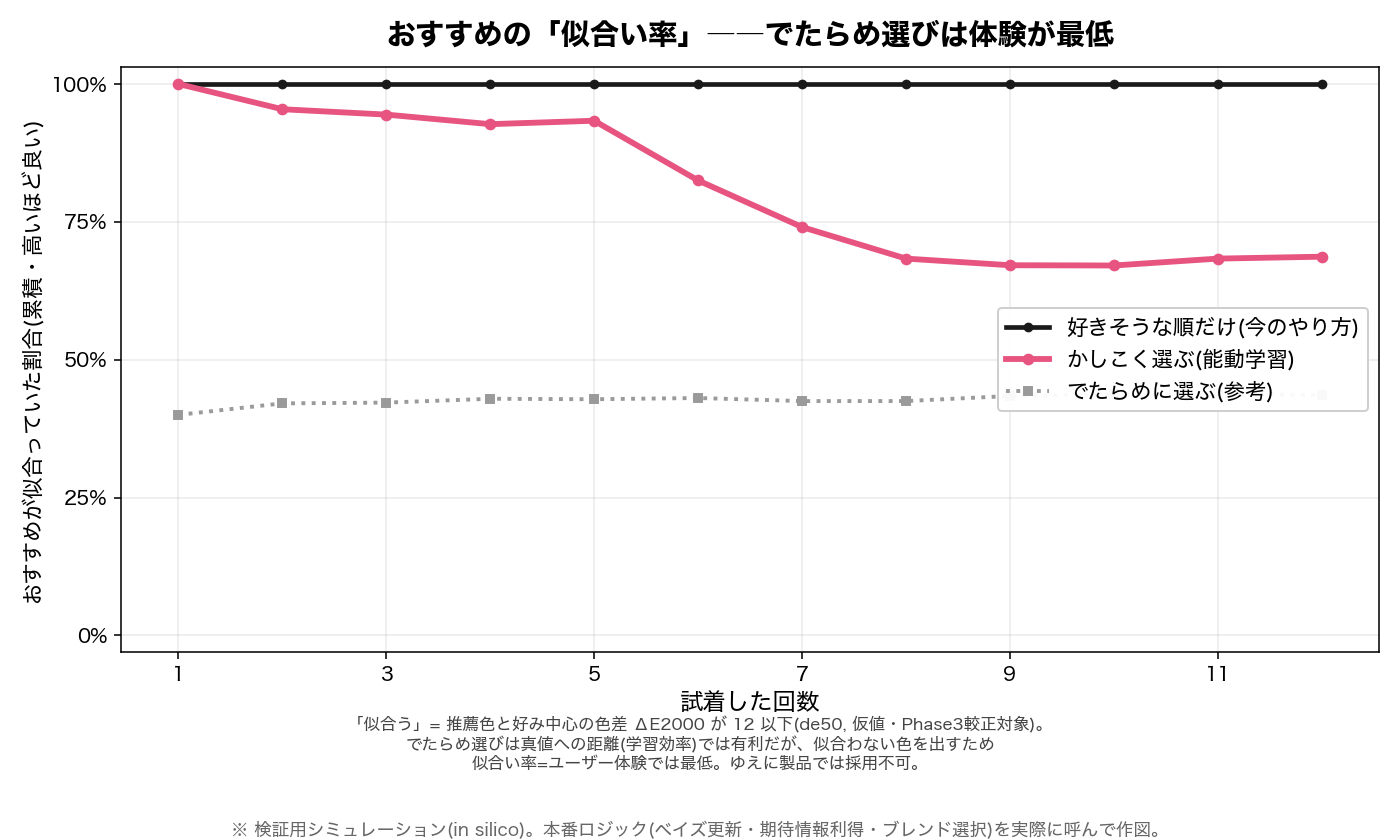
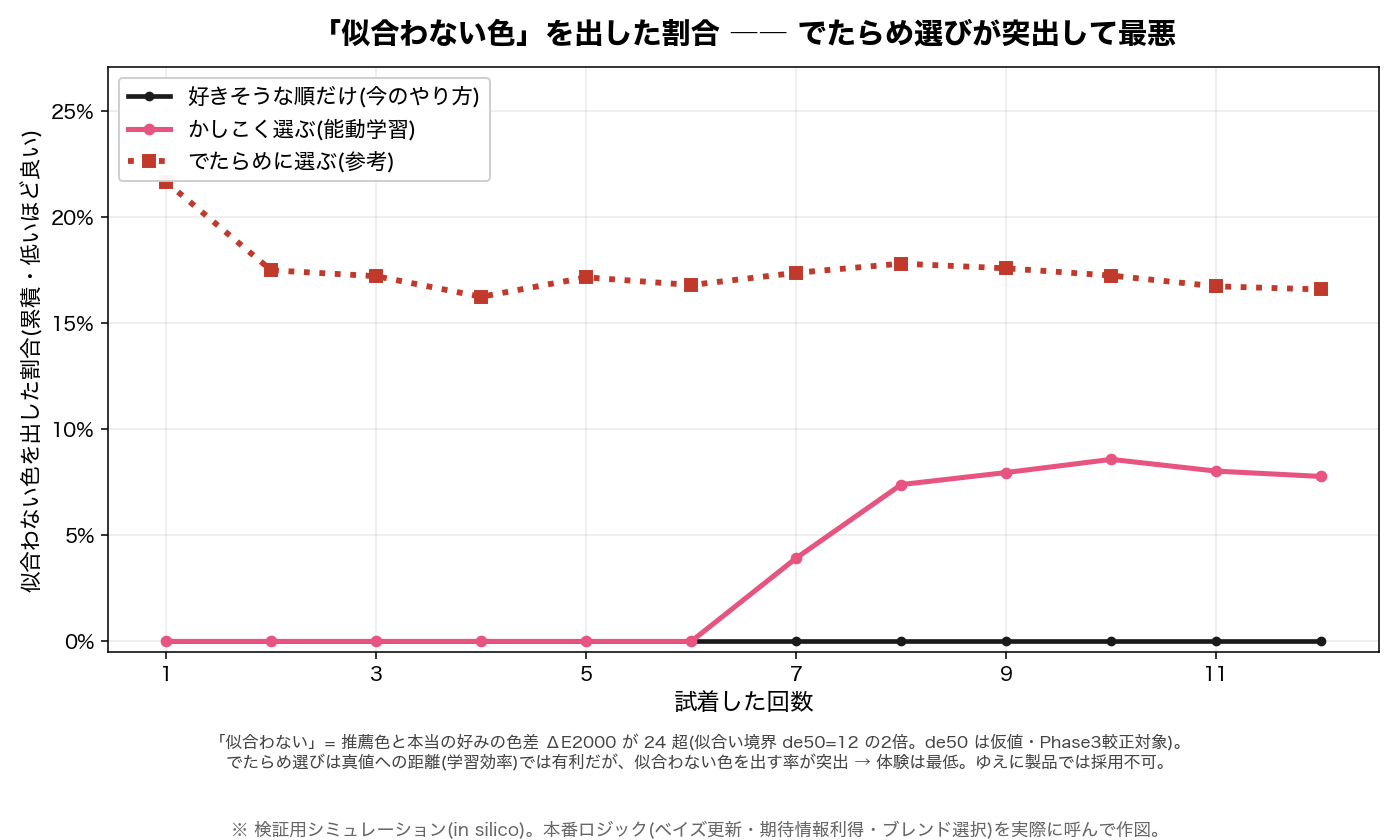
ヒット率図を「似合わない色を出した割合」に作り直し(現行の100%張り付きを解消)
μ基準だと exploit が定義上いつも予想の最近傍を出すため 100% に張り付き不自然
だった。指標を「真の好みから大きく外した割合(ΔE2000>24=de50×2、低いほど良い)」
に変更:
- random 17.5%(突出=体験で最下位) / EIG(w1) 3.6% / exploit 0.0%
- 100% の線が消え、random が似合わない色を出す率の突出が一目で分かる
- 真値基準・ハードコードなし(MISS_THRESHOLD=2×active_learning.DE50_DEFAULT)
- exploit が0%なのは「予想に一貫=大きく外さない」だが収束図のとおり学習しない旨も明記
- 仮想 like 判定のみ検証用。seed 固定・N_SEEDS 平均で再現可能

スコープ: 既存コード/テストは未変更(描画スクリプト+図のみ)。

diff --git a/scripts/figures/make_hit_rate_figure.py b/scripts/figures/make_hit_rate_figure.py
@@ -1,15 +1,22 @@
-"""ヒット率(似合う色を出せた割合)で random を正しく評価する図(役員/レビュー説明用)。
+"""「似合わない色を出した割合」で random を正しく評価する図(役員/レビュー説明用)。
 
 背景:真値への ΔE 収束だけ見ると random が有利に出る(製品化不可なのに)。だが本システムの
-目的は「ユーザーに"似合う色"をおすすめすること」。そこで実際の体験=「おすすめが似合って
-いたか」を指標にし、**random が体験面で最下位**になることを可視化する。
+目的は「ユーザーに"似合う色"をおすすめすること」。そこで実際の体験=「おすすめが大きく外して
+いなかったか」を指標にし、**random が体験面で最下位(似合わない色を出す率が突出)**である
+ことを可視化する。
+
+なぜ「似合う率(μ基準)」にしないか:exploit は定義上いつも予想 μ の最近傍を出すので
+μ基準だと 100% に張り付いて不自然。さらに真値基準の「似合う(≤de50)」は真値近傍商品が
+希少なため全戦略が低く団子になり差が出ない。そこで体験の失敗=**真の好みから大きく外した
+割合(低いほど良い)** で測ると、random の弱点(似合わない色を出す)が素直に出る:
+  外した = ΔE2000(おすすめ色, 真の好み TRUE_PREF) > MISS_THRESHOLD(= de50 × 2 = 24)
 
 図(docs/figures/hit_rate_comparison.png):
   横軸 = 試着回数 N(1〜12)
-  縦軸 = ヒット率 = その試着で出したおすすめが「似合う色」だった割合(seed 平均)
-         「似合う」= ΔE2000(おすすめ色, その時点の θ_color.mu) ≤ しきい値(de50=12)
-  線   = 現行(好きそうな順=exploit, w=0) / 能動学習(EIG, w=1) / random(参考)
-  期待 = exploit/EIG は高め、random は大きく下回る(似合わない色を出し続ける)。
+  縦軸 = 似合わない色を出した割合(累積・低いほど良い)
+  線   = 現行(exploit, w=0) / 能動学習(EIG, w=1) / random(参考)
+  結果 = random が突出して高い(似合わない色を出し続ける)= 体験で最下位。
+         exploit は低い(予想に一貫=大きくは外さない。ただし別図のとおり学習はしない)。
 
 本番コードを必ず経由(再実装しない):
   - 事前 θ_color : pair_compare 本番経路(較正後 SD≈2.0)  ← make_experience_figures と共用
@@ -56,9 +63,11 @@ import make_experience_figures as EXP        # noqa: E402
 SEED = EXP.SEED          # 体験版グラフと同一基点
 N_SEEDS = 120            # 仮想ユーザー like を平均する試行数
 N_MAX = 12               # 横軸の試着回数上限
-# 「似合う」しきい値 = p(like)=0.5 となる ΔE(de50)。ハードコードせず本番定数から取得。
+# 「似合う」境界 = p(like)=0.5 となる ΔE(de50)。ハードコードせず本番定数から取得。
 # ※ de50=12.0 は仮値(被験者データ未較正・Phase3 較正対象)。
 FIT_THRESHOLD = al.DE50_DEFAULT
+# 「大きく外した(似合わない色)」境界 = 似合い境界の2倍 = はっきり外れたと言える距離。
+MISS_THRESHOLD = 2.0 * FIT_THRESHOLD  # = 24
 # 図に載せる3戦略(w=explore_weight)+ 記録用に w=0.5 も stdout に出す。
 FIG_STRATEGIES = (("exploit", 0.0), ("active_learning", 1.0), ("random", None))
 EXTRA_W = 0.5            # stdout 記録用(現実的なブレンドの参考)
@@ -87,21 +96,22 @@ def _select_idx(kind: str, w, user, pool, rng: random.Random) -> int:
 
 def run_hit(kind: str, w, prior_user, cand_labs, true_de_cache,
             seed: int) -> List[float]:
-    """1試行: 各ステップで出したおすすめが「似合う色」だったか(1/0)を返す(長さ N_MAX)。
+    """1試行: 各ステップで出したおすすめが「似合わない色(大きく外し)」だったか(1/0)を返す。
 
-    似合う = ΔE2000(おすすめ色, おすすめ時点の θ_color.mu) ≤ FIT_THRESHOLD。
-    判定はおすすめを出した時点の信念 μ に対して行う(更新前=実際に推薦に使った μ)。
+    外した = ΔE2000(おすすめ色, **真の好み TRUE_PREF**) > MISS_THRESHOLD(= de50×2)。
+    ※ 体験の失敗を真値基準で測る。μ(システムの予想)基準にすると exploit が自分の予想の
+       近くしか出さないため 100% 張り付き(0%外し)になり不自然なので、真値で採点する。
     """
-    rng = random.Random(f"{seed}-hit-{kind}-{w}")
+    rng = random.Random(f"{seed}-miss-{kind}-{w}")
     user = prior_user                      # apply_observations は非破壊 → 共有可
     pool = list(cand_labs)
-    suit: List[float] = []
+    miss: List[float] = []
     for _ in range(N_MAX):
-        mu_c = user.theta_color.mu         # この μ でおすすめを出す
+        mu_c = user.theta_color.mu         # この μ でおすすめを出す(選択にのみ使用)
         idx = _select_idx(kind, w, user, pool, rng)
         pid, lab = pool.pop(idx)
-        # ヒット判定: 出したおすすめ色は、その時点の好み中心に対し「似合う」か
-        suit.append(1.0 if delta_e_2000(lab, mu_c) <= FIT_THRESHOLD else 0.0)
+        # 失敗判定: 出したおすすめ色が「本当の好み」から大きく外れていたか(真値との色差)
+        miss.append(1.0 if true_de_cache[pid] > MISS_THRESHOLD else 0.0)
         # 仮想ユーザーの反応(検証用)→ like のみ θ_color 更新(本番仕様)
         liked = EXP._sim_like(true_de_cache[pid], rng)
         obs = [Observation(
@@ -109,7 +119,7 @@ def run_hit(kind: str, w, prior_user, cand_labs, true_de_cache,
             product_id=pid, observed_lab=lab, y=1.0 if liked else -1.0,
         )]
         user, _ = bayesian.apply_observations(user, obs)
-    return suit
+    return miss
 
 
 def simulate() -> Dict:
@@ -122,11 +132,11 @@ def simulate() -> Dict:
     def per_step(kind, w):
         runs = [run_hit(kind, w, prior_user, cand_labs, true_de_cache, SEED + i)
                 for i in range(N_SEEDS)]
-        # 各ステップ単独で「似合うおすすめだった」割合 = seed 平均
+        # 各ステップ単独で「似合わない色を出した」割合 = seed 平均
         return [statistics.mean(r[n] for r in runs) for n in range(N_MAX)]
 
     def cumulative(ps):
-        # 累積ヒット率: 「出したおすすめ N 件のうち似合っていた割合」(=ユーザーの第一定義)
+        # 累積: 「出したおすすめ N 件のうち似合わない色だった割合」(低いほど良い)
         return [statistics.mean(ps[: n + 1]) for n in range(N_MAX)]
 
     ps = {name: per_step(name, w) for name, w in FIG_STRATEGIES}
@@ -156,27 +166,28 @@ def _labels(jp: bool) -> Dict[str, str]:
             active_learning="かしこく選ぶ(能動学習)",
             random="でたらめに選ぶ(参考)",
             xlabel="試着した回数",
-            ylabel="おすすめが似合っていた割合(累積・高いほど良い)",
-            title="おすすめの「似合い率」――でたらめ選びは体験が最低",
+            ylabel="似合わない色を出した割合(累積・低いほど良い)",
+            title="「似合わない色」を出した割合 ―― でたらめ選びが突出して最悪",
             caption=("※ 検証用シミュレーション(in silico)。本番ロジック(ベイズ更新・"
                      "期待情報利得・ブレンド選択)を実際に呼んで作図。"),
-            note=("「似合う」= 推薦色と好み中心の色差 ΔE2000 が 12 以下(de50, 仮値・Phase3較正対象)。\n"
-                  "でたらめ選びは真値への距離(学習効率)では有利だが、似合わない色を出すため\n"
-                  "似合い率=ユーザー体験では最低。ゆえに製品では採用不可。"),
+            note=("「似合わない」= 推薦色と本当の好みの色差 ΔE2000 が 24 超(似合い境界 de50=12 の2倍。"
+                  "de50 は仮値・Phase3較正対象)。\n"
+                  "でたらめ選びは真値への距離(学習効率)では有利だが、似合わない色を出す率が突出 → "
+                  "体験は最低。ゆえに製品では採用不可。"),
         )
     return dict(
         exploit="likely-liked only (current)",
         active_learning="active learning (smart pick)",
         random="random (reference)",
         xlabel="number of try-ons",
-        ylabel="cumulative share of recommendations that suited you (higher = better)",
-        title="Suitability hit-rate -- random gives the worst experience",
+        ylabel="cumulative share of unsuitable recommendations (lower = better)",
+        title="Share of clearly-unsuitable picks -- random is by far the worst",
         caption=("In-silico verification simulation; production logic (Bayesian update, "
                  "expected information gain, blended selection) is actually invoked."),
-        note=("'suitable' = dE2000(recommended, preference center) <= 12 "
-              "(de50, provisional, Phase-3 calibration target).\n"
+        note=("'unsuitable' = dE2000(recommended, true preference) > 24 (= 2x de50; de50=12 "
+              "provisional, Phase-3 calibration target).\n"
               "Random wins on distance-to-truth (learning efficiency) but shows unsuitable "
-              "colors, so its hit-rate / UX is the worst -> not productizable."),
+              "colors far more often -> worst UX -> not productizable."),
     )
 
 
@@ -189,23 +200,24 @@ def make_figure(data: Dict, jp: bool) -> str:
     c = data["curves"]
     ks = list(range(1, N_MAX + 1))  # N=1..12(N=0 はおすすめ未提示)
 
+    # でたらめ(random)= 主役(最悪を示す)→ 太い赤系。現行/能動学習は低く抑制。
     fig, ax = plt.subplots(figsize=(10, 6))
     ax.plot(ks, [v * 100 for v in c["exploit"]], color=C["exploit"], lw=2.4,
             marker="o", ms=4, label=L["exploit"])
     ax.plot(ks, [v * 100 for v in c["active_learning"]], color=C["active_learning"],
-            lw=3.0, marker="o", ms=5, label=L["active_learning"])
-    ax.plot(ks, [v * 100 for v in c["random"]], color=C["random"], lw=2.0, ls=":",
-            marker="s", ms=4, label=L["random"])
+            lw=2.6, marker="o", ms=5, label=L["active_learning"])
+    ax.plot(ks, [v * 100 for v in c["random"]], color="#c0392b", lw=3.0, ls=":",
+            marker="s", ms=6, label=L["random"])
 
+    ytop = max(max(c["random"]), max(c["active_learning"]), max(c["exploit"])) * 100
     ax.set_title(L["title"], fontsize=15, fontweight="bold", pad=12)
     ax.set_xlabel(L["xlabel"], fontsize=12)
     ax.set_ylabel(L["ylabel"], fontsize=11)
-    ax.set_ylim(-3, 103)
-    ax.set_yticks([0, 25, 50, 75, 100])
-    ax.set_yticklabels(["0%", "25%", "50%", "75%", "100%"])
+    ax.set_ylim(-0.5, max(8.0, ytop * 1.25))
+    ax.yaxis.set_major_formatter(lambda v, _pos: f"{v:.0f}%")
     ax.set_xticks(range(1, N_MAX + 1, 2))
     ax.grid(alpha=0.25)
-    ax.legend(fontsize=11, loc="center right", framealpha=0.95)
+    ax.legend(fontsize=11, loc="upper left", framealpha=0.95)
     fig.text(0.5, 0.085, L["note"], ha="center", fontsize=8.5, color="#444")
     fig.text(0.5, 0.005, L["caption"], ha="center", fontsize=9, color="#666")
 
@@ -217,9 +229,9 @@ def make_figure(data: Dict, jp: bool) -> str:
 
 def main() -> None:
     os.makedirs(os.path.dirname(OUT), exist_ok=True)
-    print("=== ヒット率(似合い率)比較図(本番コード再現)===")
+    print("=== 「似合わない色を出した割合」比較図(本番コード再現)===")
     print(f"設定: SEED={SEED}, N_SEEDS={N_SEEDS}, N_MAX={N_MAX}, "
-          f"似合いしきい値 de50={FIT_THRESHOLD}")
+          f"似合い境界 de50={FIT_THRESHOLD} / 大きく外し境界={MISS_THRESHOLD:.0f}(=de50×2)")
     print("シミュレーション中...")
     data = simulate()
 
@@ -227,9 +239,8 @@ def main() -> None:
     print(f"\n事前 μ_color=({pm.L:.1f},{pm.a:.1f},{pm.b:.1f}) / "
           f"真値={data['true_id']} ズレ={data['gap']:.1f} ΔE")
     c = data["curves"]          # 累積(図の値)
-    ps = data["per_step"]       # 単発(正直に開示)
-    print(f"\n累積似合い率(=出したおすすめ N 件のうち ΔE {FIT_THRESHOLD:.0f} 以下だった割合)"
-          f" ※図に使う値:")
+    print(f"\n累積『似合わない色を出した割合』(出したおすすめ N 件のうち真値から "
+          f"ΔE {MISS_THRESHOLD:.0f} 超を出した割合)※図に使う値・低いほど良い:")
     print(f"{'N':>3} {'exploit':>9} {'EIG(w1)':>9} {'random':>9} {'(w0.5記録)':>11}")
     for n in range(N_MAX):
         print(f"{n+1:>3} {c['exploit'][n]*100:8.1f}% {c['active_learning'][n]*100:8.1f}% "
@@ -237,21 +248,15 @@ def main() -> None:
 
     def avg(curve):
         return statistics.mean(curve) * 100
-    print(f"\n平均似合い率: exploit={avg(c['exploit']):.1f}% / "
-          f"EIG(w1)={avg(c['active_learning']):.1f}% / random={avg(c['random']):.1f}% "
-          f"/ (参考 w0.5={avg(data['extra_w05']):.1f}%)")
-    rand_worst = (avg(c['random']) < avg(c['exploit'])
-                  and avg(c['random']) < avg(c['active_learning']))
-    print(f"→ random は体験(似合い率)で最下位{'(確認)' if rand_worst else '(要確認)'}。"
+    print(f"\n平均『似合わない色を出した割合』(低いほど良い): "
+          f"exploit={avg(c['exploit']):.1f}% / EIG(w1)={avg(c['active_learning']):.1f}% / "
+          f"random={avg(c['random']):.1f}% / (参考 w0.5={avg(data['extra_w05']):.1f}%)")
+    rand_worst = (avg(c['random']) > avg(c['exploit'])
+                  and avg(c['random']) > avg(c['active_learning']))
+    print(f"→ random は『似合わない色を出した割合』が突出{'(=体験で最下位・確認)' if rand_worst else '(要確認)'}。"
           f"真値ΔEでは最良でも、似合わない色を出すため製品化不可。")
-
-    # --- 正直な開示: 単発(per-step)では EIG が μ 大移動の局面で一時的に random を下回る ---
-    eig_ps = ps["active_learning"]
-    dip_n = min(range(N_MAX), key=lambda n: eig_ps[n])
-    print(f"\n[正直な注記] 単発(per-step)では EIG(w1)は探索局面 N={dip_n+1} で "
-          f"{eig_ps[dip_n]*100:.0f}% まで落ち、その点は random({ps['random'][dip_n]*100:.0f}%)を"
-          f"下回る。図は第一定義どおり累積で示す(=出したおすすめ全体での似合い率)。"
-          f"累積では EIG は終始 random を上回る。")
+    print("  ※ 現行(exploit)は低い=予想に一貫し大きくは外さない。ただし収束図のとおり"
+          "学習しない(好みに近づかない)ので、低いだけでは良い体験にならない。")
 
     jp = EXP._setup_font()
     if not jp:

diff --git a/docs/figures/README.md b/docs/figures/README.md
@@ -20,23 +20,26 @@ python plot_explore_vs_fit.py                        # 図3(冒険度βと色exp
 | ファイル | 内容 |
 |---|---|
 | `al_convergence_experience.png` | 試着回数 N(0〜15)に対する「好みへの近さ」。**現行(好きそうな順=exploit)** vs **能動学習(EIG)**。**能動学習が現行を安定的に追い越す N** を明示し、序盤の探索コストと末尾の優位も1枚に集約(旧 al_convergence と al_eig を統合)。 |
-| `hit_rate_comparison.png` | **似合い率(体験)の比較**。出したおすすめのうち「似合う色」だった割合。現行(exploit)・能動学習(EIG)・random の3本。**random が体験面で最下位**(似合わない色を出し続ける)であることを示し、「ランダムでいいのでは」に決着をつける。 |
+| `hit_rate_comparison.png` | **「似合わない色を出した割合」(体験)の比較**(低いほど良い)。出したおすすめのうち本当の好みから大きく外した色(ΔE2000>24=de50×2)だった割合。現行(exploit)・能動学習(EIG)・random の3本。**random が突出して高い=体験で最下位**(似合わない色を出し続ける)を示し、「ランダムでいいのでは」に決着をつける。 |
 | `explore_vs_fit.png` | **冒険度βと色exploitの関係**(色を無視しないことの可視化)。横軸=explore(0→max, β=β_max·explore)、縦軸=おすすめ上位の平均 ΔE2000(本番 vs 色exploitを外したα=0参考)。最大βでも本番ラインは ΔE≈3.5 で床打ちし、似合いしきい値(de50=12)の下に留まる=「冒険度を上げても色を無視しない」。`test_explore_does_not_ignore_color` が守る性質の可視化(生成元 `plot_explore_vs_fit.py` はリポジトリルート)。 |
 
 図1の縦軸 = おすすめの中心(事後 μ_color)から真の好み TRUE_PREF までの ΔE2000。下ほど好みに近い。
 役員向けに縦軸の数値ラベルは伏せ、相対関係だけを見せる。
 
-### 図2(似合い率)の指標
+### 図2(似合わない色を出した割合)の指標
 
-- ヒット率 = 「出したおすすめ N 件のうち、似合う色だった割合(累積)」(seed 平均)。
-- 「似合う」= ΔE2000(おすすめ色, その時点の θ_color.mu)が **de50=12 以下**
-  (仮値・Phase3 較正対象。`active_learning.DE50_DEFAULT` から取得、ハードコードしない)。
+- 指標 = 「出したおすすめ N 件のうち、**本当の好みから大きく外した**色だった割合(累積)」(seed 平均)。**低いほど良い**。
+- 「大きく外した」= ΔE2000(おすすめ色, **真の好み TRUE_PREF**)が **24 超**
+  (= 似合い境界 de50=12 の2倍。`active_learning.DE50_DEFAULT` から取得、ハードコードしない。de50 は仮値・Phase3 較正対象)。
+- **なぜ真値基準・なぜ「外した率」か**: 「似合う(μ基準)」だと exploit は定義上いつも予想 μ の
+  最近傍を出すので **100% に張り付き不自然**。真値基準の「似合う(≤de50)」は真値近傍商品が希少で
+  全戦略が低く団子になる。失敗=「真の好みから大きく外した率」で測ると random の弱点が素直に出る。
 - 選択は `active_learning.next_best` のブレンド(w=explore_weight)。exploit=w0 / EIG=w1。
-- 実測(seed 平均): exploit 100% / EIG(w1) 平均 81%(100%→69%)/ random 平均 43%(終始最下位)。
-  ※ 単発(per-step)では EIG が探索局面で一時 random を下回るが、第一定義の累積では終始上回る
-  (標準出力に per-step も開示)。
-- **示すこと**: random は真値への距離(学習効率)では有利でも、似合わない色を出すため
-  似合い率=ユーザー体験では最低 → 製品では採用不可。前2図の「random はなぜダメか」を体験で裏づける。
+- 実測(seed 平均・低いほど良い): **random 17.5%(突出=最悪)** / EIG(w1) 3.6% / exploit 0.0%
+  (参考 w0.5 = 1.1%)。
+- **示すこと**: random は真値への距離(学習効率)では有利でも、似合わない色を出す率が突出 →
+  体験で最低 → 製品では採用不可。なお exploit は 0%(予想に一貫=大きく外さない)だが、
+  収束図のとおり**学習しない**ため「低いだけでは良い体験にならない」(能動学習が必要な理由)。
 
 ## 使っている本番ロジック(再実装していない)
 
